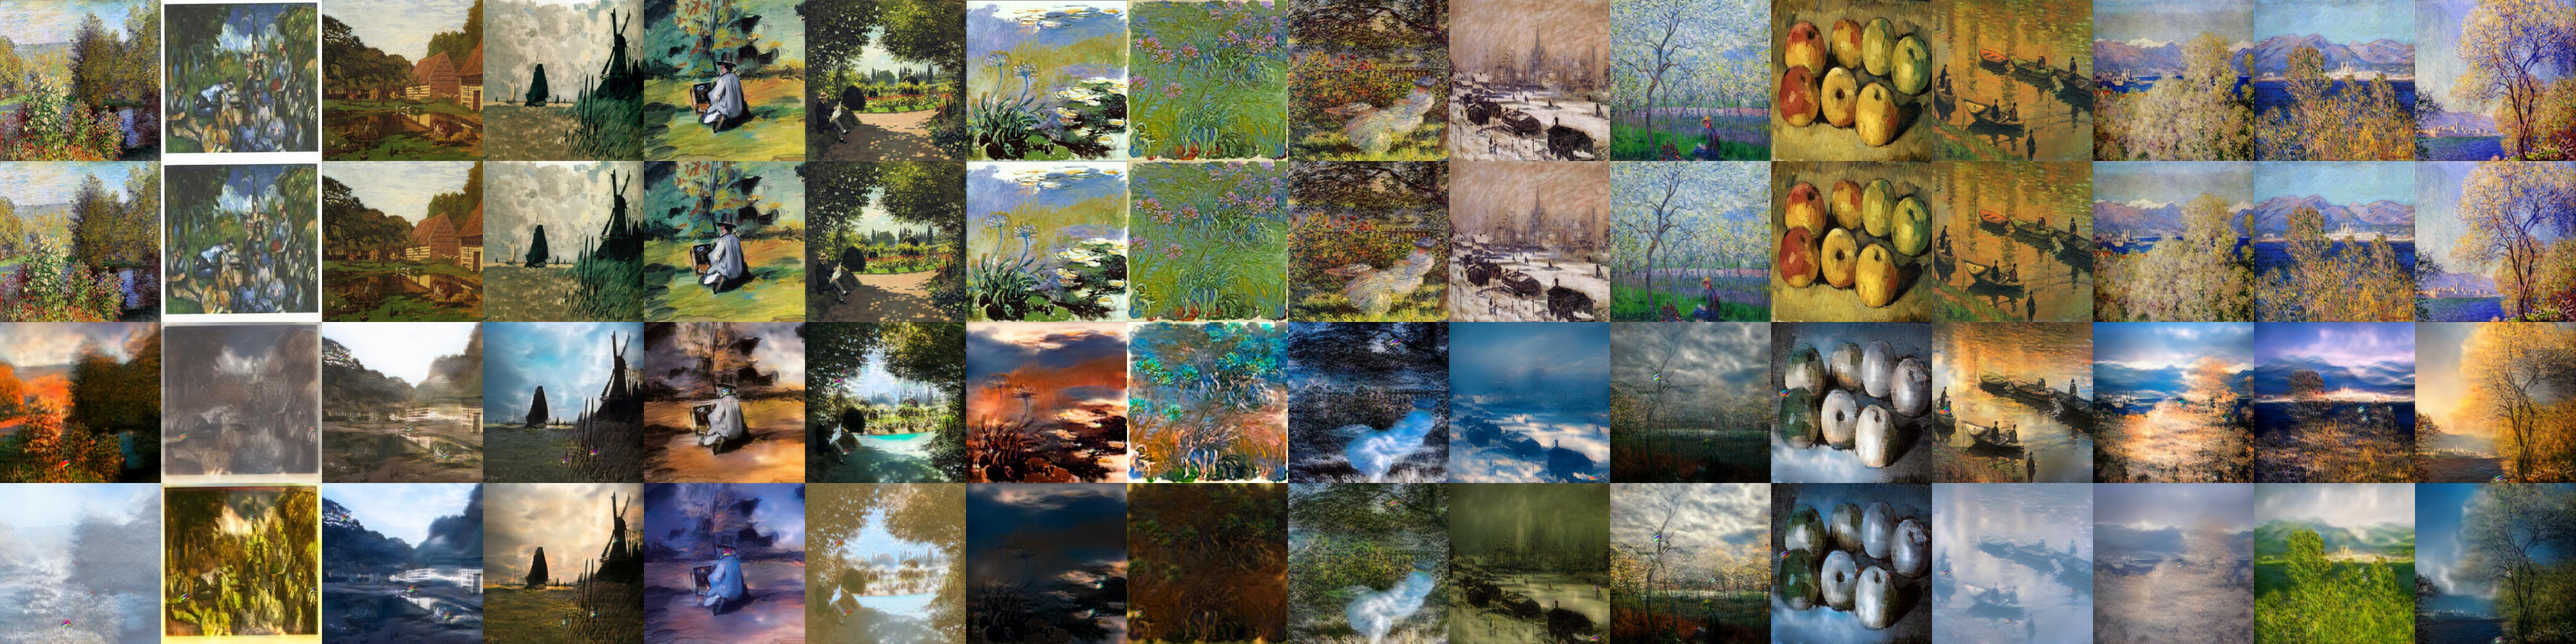
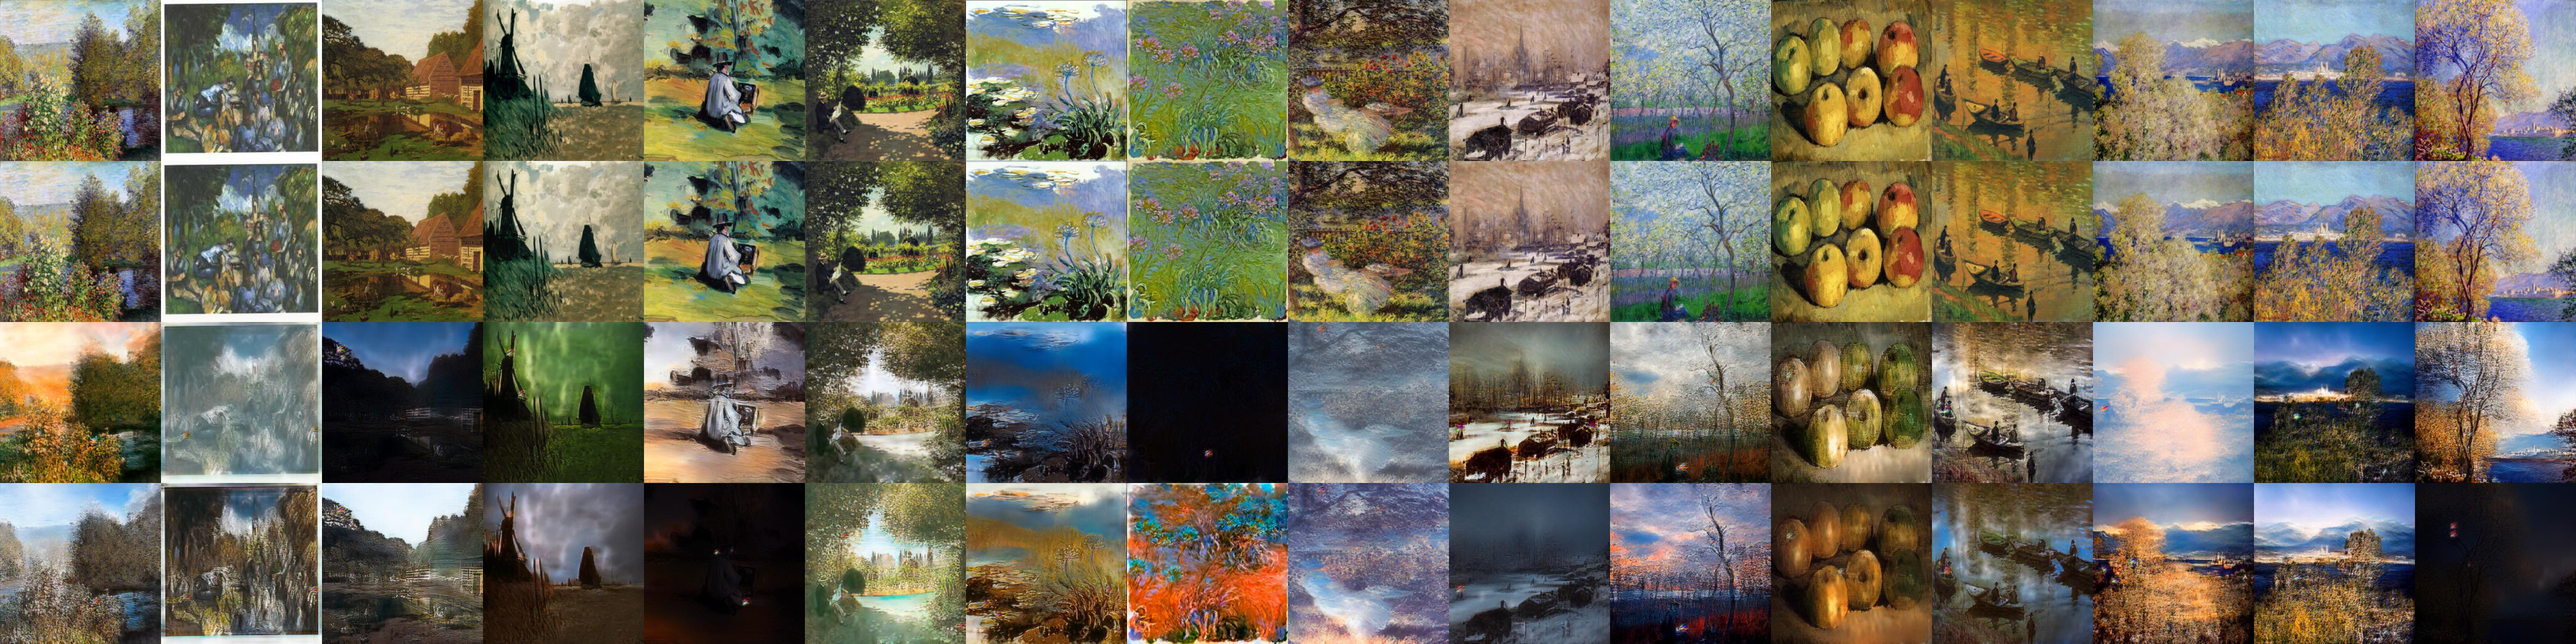
todo

diff --git a/model/mixlow_model.py b/model/mixlow_model.py
@@ -30,11 +30,11 @@ import torchvision.utils as vutils
 from torch.utils.data import DataLoader
 
 
-checkpoint_directory = '/home/diegushko/checkpoint/mix2photo'
-image_directory = '/home/diegushko/github/MUNIT_Lite_Pytorch/out_mix' #output images
+checkpoint_directory = '/home/diegushko/checkpoint/mixlow2photo'
+image_directory = '/home/diegushko/github/MUNIT_Lite_Pytorch/out_mixlow' #output images
 
-device = 'cuda:1' if torch.cuda.is_available() else 'cpu'
-cuda_loc = 'cuda:1'
+device = 'cuda:0' if torch.cuda.is_available() else 'cpu'
+cuda_loc = 'cuda:0'
 
 params = {
 # logger options
@@ -60,7 +60,7 @@ params = {
 'recon_x_w': 10,                 # weight of image reconstruction loss
 'recon_s_w': 1,                  # weight of style reconstruction loss
 'recon_c_w': 1,                  # weight of content reconstruction loss
-'recon_x_cyc_w': 10,              # weight of explicit style augmented cycle consistency loss
+'recon_x_cyc_w': 1,              # weight of explicit style augmented cycle consistency loss
 'vgg_w': 0,                      # weight of domain-invariant perceptual loss
 
 # model options
@@ -1063,7 +1063,7 @@ def get_model_list(dirname, key):
     last_model_name = gen_models[-1]
     return last_model_name
 
-train_resume = True
+train_resume = False
 
 iterations = trainer.resume(checkpoint_directory, params) if train_resume else 0
 
